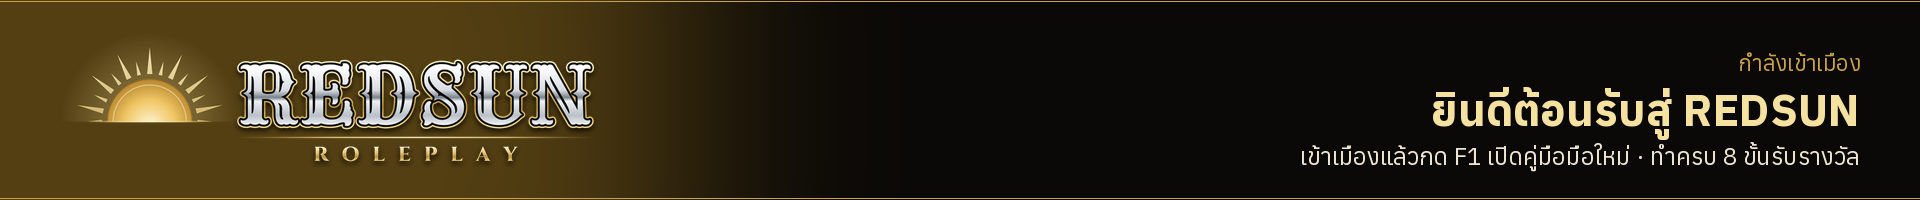
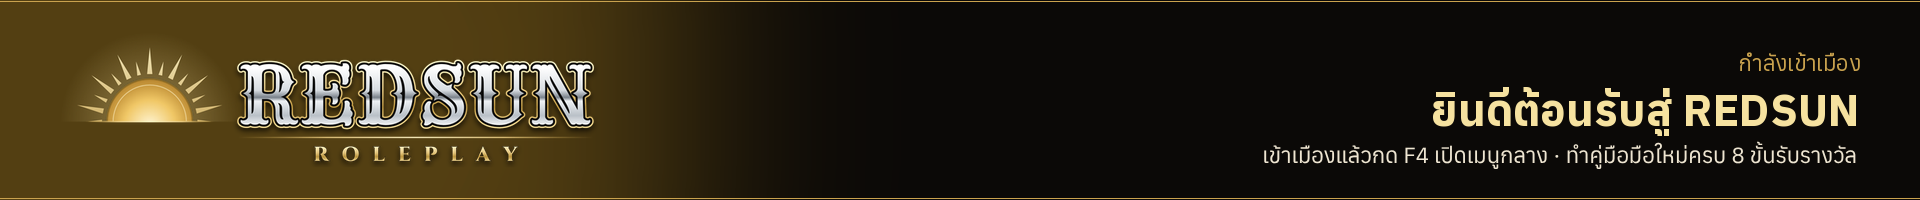
add

Changed region(s): [[0.6562, 0.72, 0.9688, 0.84]]

diff --git a/ui/index.html b/ui/index.html
@@ -135,7 +135,7 @@ button{font:inherit;color:inherit;cursor:pointer}
 			<div class="hl"></div>
 			<div class="news" id="newsMini">
 				<div class="nc"><span class="k">15 ต.ค.</span><b>งานครบ 7 เมือง · เหมืองทอง 3 ขั้น</b><span class="mut">ทุกงานใช้พลังงานใน มีมินิเกม</span></div>
-				<div class="nc"><span class="k">15 ต.ค.</span><b>เมนูกลาง F1 · อันดับ · ภารกิจรายวัน</b><span class="mut">ลองกด F1 ในเกม</span></div>
+				<div class="nc"><span class="k">15 ต.ค.</span><b>เมนูกลาง F4 · อันดับ · ภารกิจรายวัน</b><span class="mut">ลองกด F4 ในเกม</span></div>
 				<div class="nc"><span class="k">14 ต.ค.</span><b>โจรป่าดักปล้นนอกเมือง</b><span class="mut">ระวังตัวเมื่อเดินทางคนเดียว</span></div>
 			</div>
 		</div>
